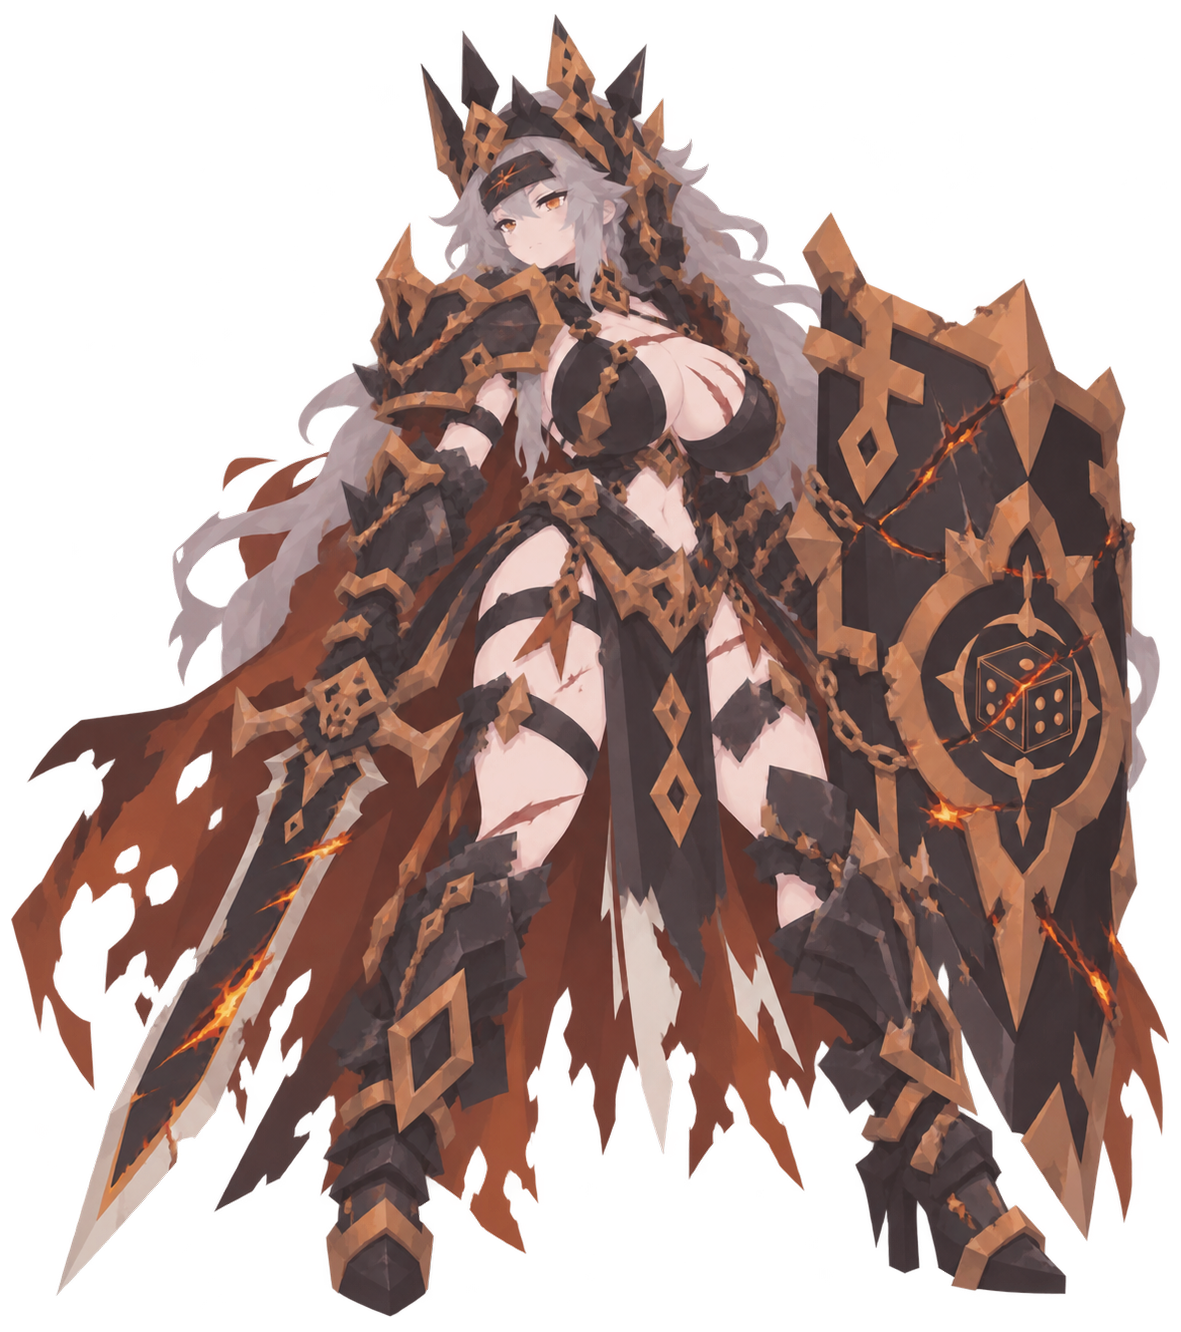
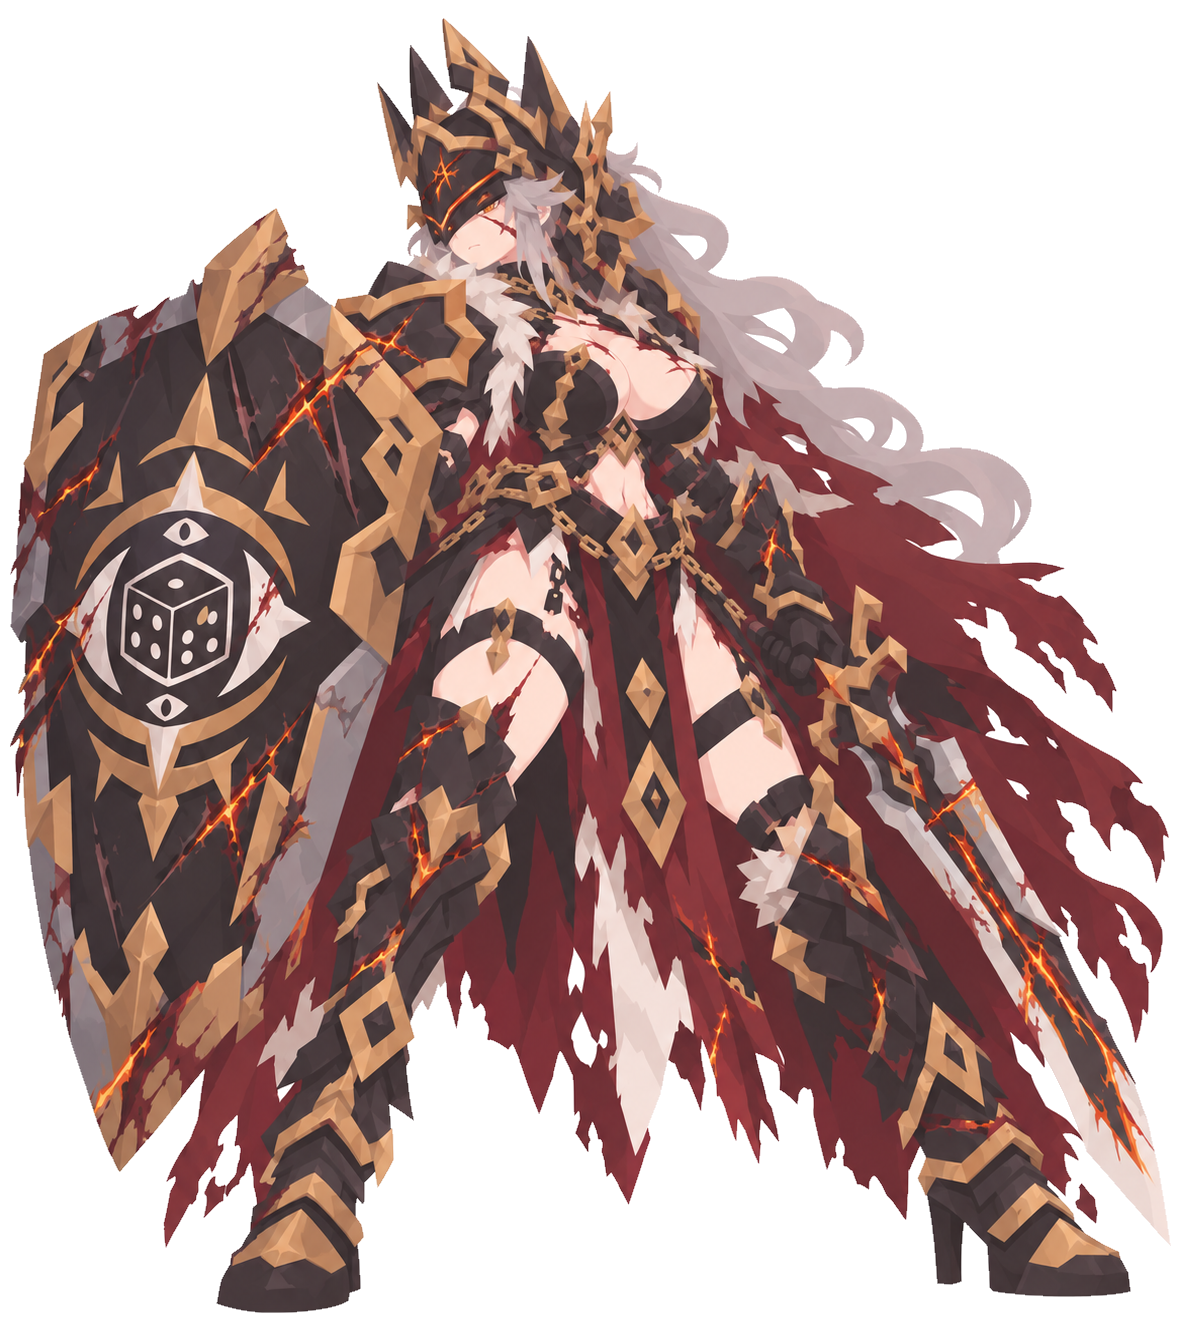
feat(art): 보스 6종 v5 확정 — 사용자 설정 반영 (고블린 왕 안경, 영계의 지배자 4기사, 마수=광전사 언니, 기사단장 바이저, 공허의 눈 X흉터 속 눈)

diff --git a/docs/art/ART_RESOURCES.md b/docs/art/ART_RESOURCES.md
@@ -639,12 +639,12 @@ Work는 `resources/ui/` 이미지가 있으면 StyleBoxTexture로 쓰고, 없으
 
 | 보스 | 설정 | 디자인 포인트 | 퍼스널 컬러 |
 |---|---|---|---|
-| 고블린 왕 `goblin_king` | 사실은 멍청한데 똑똑해 보이고 싶어 안경을 쓴 여왕 | 둥근 금테 안경, 거만한 "천재" 표정 | 금 `#D9A626` |
+| 고블린 왕 `goblin_king` | 사실은 멍청한데 똑똑해 보이고 싶어 안경을 쓴 여왕 | 둥근 금테 안경을 왼손으로 치켜올림, 방패 없이 오른손에 주사위 지팡이 | 금 `#D9A626` |
 | 점액 군주 `ooze_lord` | 온몸이 점액인 여왕 | 피부·팔다리·머리카락까지 반투명 점액, 몸속 주사위 | 녹 `#4D8C59` |
-| 영계의 지배자 `skeleton_general` (구 해골 장군) | 묵시록의 4기사(역병·기근·살육·죽음) 모티브의 영계 여왕 | 슬렌더 체형, 헤진 옷, 4기사 상징(역병=썩은 녹빛 독기·기근=저울/말라붙은 이삭·살육=핏빛 검·죽음=낫/해골) | 뼈색 + 보라 영혼불 `#8E6BD1` |
-| 광란의 마수 `frenzied_beast` | **광전사의 언니**. 마수를 뜯어먹으며 힘을 키웠고, 그 대가로 외형이 짐승처럼 변하고 힘에 취했다 | 체모·맹수 손발·고양이 눈·톱니 이빨, 광전사(스칼렛)와 색으로 확실히 구분 | 진한 와인 레드/검붉은색 `#7A1F2B` (붉은 계열 유지) |
-| 타락한 기사단장 `fallen_commander` | **수호자의 전 기사단장**. 저주받은 장비에 의해 타락했고, 힘을 갈망하며 기사단을 떠났다 | 얼굴 흉터, 눈만 살짝 가리는 바이저 투구(얼굴 전체는 안 가림), 장비 칼자국, 베인 서클렛(배신 표식) | 검은 강철 + 잿불 주황 `#B5652A` |
-| 공허의 눈 `void_eye` | 크툴루·심해 컨셉. 심장이 해저에 봉인당했다(캐리비안의 해적 윌 터너 모티브) | 촉수·기괴한 눈, 심장 위치 가슴에 X자 흉터 | 짙은 청록 `#0F4C5C` |
+| 영계의 지배자 `skeleton_general` (구 해골 장군) | 묵시록의 4기사(역병·기근·살육·죽음) 모티브의 영계 여왕 | 슬림한 체형(작은 가슴, 마르되 건강한 라인), 헤진 옷, 해골 동공, 4기사 상징(역병=썩은 녹빛 독기·기근=저울/말라붙은 이삭·살육=핏빛 검·죽음=낫/해골) | 뼈색 + 보라 영혼불 `#8E6BD1` |
+| 광란의 마수 `frenzied_beast` | **광전사의 언니**. 마수를 뜯어먹으며 힘을 키웠고, 그 대가로 외형이 짐승처럼 변하고 힘에 취했다 | 체모·맹수 손발·고양이 눈·톱니 이빨, 광전사(스칼렛)와 색으로 확실히 구분 | 버건디/검붉은색 `#5E1A2A` (붉은 계열 유지, 털은 거의 검정) |
+| 타락한 기사단장 `fallen_commander` | **수호자의 전 기사단장**. 저주받은 장비에 의해 타락했고, 힘을 갈망하며 기사단을 떠났다 | 얼굴 흉터, 눈만 가리는 검은 바이저 마스크(잿불 균열, 입·턱은 노출), 장비 칼자국, 베인 서클렛(배신 표식) | 검은 강철 + 잿불 주황 `#B5652A` |
+| 공허의 눈 `void_eye` | 크툴루·심해 컨셉. 심장이 해저에 봉인당했다(캐리비안의 해적 윌 터너 모티브) | 창백하고 푸른 피부, 촉수·기괴한 눈, 심장 위치에 넓은 X자 흉터 — 흉터 안이 파랗게 열려 눈동자가 엿보임(심해 생물이 숨은 느낌) | 짙은 청록 `#0F4C5C` |
 ## 4. 적용 계획 / 기록
 
 ### 적용 지점
@@ -715,6 +715,7 @@ Work는 `resources/ui/` 이미지가 있으면 StyleBoxTexture로 쓰고, 없으
 | 2026-10-17 | **일반 14종 v3 재디자인** (고블린·해골 전사·오크·유령·그림자·안개·늑대·광견·멧돼지·독거미·구울·좀비·해골 궁수·망령 병사). **슬라임·독 슬라임은 2회 모두 정책에 걸려 v1 유지**. 아머/방패 고블린·산적·경비병은 같은 금발 고블린처럼 나와(산적·경비병은 인간이어야 함) 머리색·외형을 구분해 재요청 → 2026-10-19 적용(`qa_out/art_normal_v3_a.png`) | `resources/monsters/<id>/full.png` 교체 | `qa_out/art_normal_v3_b.png` |
 | 2026-10-19 | **캐릭터 표정 개성 강화 v2** (사용자 성격 가이드 대조 — 견습 모험가·광전사·매혹사·해적은 이미 부합해 유지. 곡예사=깐죽대는 smug, 수호자=차가운 쿨데레, 폭발병=소악마 빌런, 주술사=음침·음흉 오타쿠로 5장씩 재생성, 구도는 기존 neutral 템플릿 유지) | `resources/characters/{juggler,guardian,explosive,shieldbearer}/face_*.png` 교체(v1은 `_reference/characters/<id>/v1/`) | `qa_out/art_<id>_face_v2.png` |
 | 2026-10-20 | **보스 5종 v4 수정** (사용자 피드백): 점액 군주=몸까지 전부 점액 / 해골 장군→**영계의 지배자** 개명, 헤진 옷·해골 동공·왼눈 보석, 보라 영혼불 #8E6BD1 / 광란의 마수=체모·맹수 손발·고양이 눈·톱니 이빨, 광전사와 차별(어두운 털+진홍 갈기) / 타락한 기사단장=칼자국·베인 서클렛(배신자 표식), 검은 강철+잿불 주황 #B5652A / 공허의 눈=크툴루 심해 컨셉, 짙은 청록 #0F4C5C+촉수·눈. 퍼스널 컬러 중복 제거(녹/보라/진홍/주황/청록/금) | `resources/monsters/<boss>/full.png` 교체 | `qa_out/art_boss_v4_lineup.png` |
+| 2026-10-20 | **보스 6종 v5 확정** (3-8 설정표 기준): 고블린 왕 안경+지팡이(팔 오류 2회 수정) / 영계의 지배자 4기사 모티브·슬림 체형 / 광란의 마수 광전사 언니 설정·버건디 #5E1A2A / 타락한 기사단장 바이저 마스크·얼굴 흉터·수호자 기사단 갑옷 / 공허의 눈 창백한 피부·X 흉터 안의 눈(B안 채택). 점액 군주는 v4 유지 | `resources/monsters/<boss>/full.png` 교체 | `qa_out/art_boss_v5_lineup.png` |
 
 ---
 
